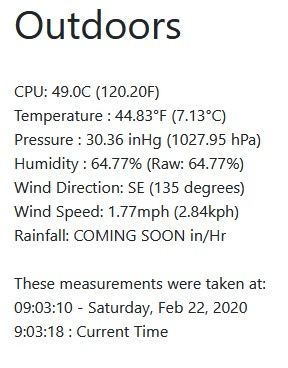
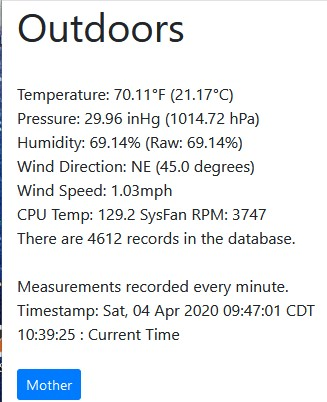
edits to readme.md

Changed region(s): [[0.0, 0.0, 0.9688, 1.0]]

diff --git a/README.md b/README.md
@@ -1,7 +1,7 @@
 # The Quest for a Reliable, Robust, Repairable Raspberry Pi-based Weather Station
 Project Initialized October 2019.
 Project opened to public on Github February 2020.
-![RRRRPWS on the pole.](./Pics/RRRRPWS-on-the-pole.jpg)
+![RRRRPWS on the pole.](./Pics/RRRRPWS-on-the-pole.jpg) ![Output as seen in browser.](./Pics/Output-to-brouswer.jpg)
 My station is up and running.  It works.  I get good, accurate, stable readings for temperature, pressure, humidity, wind speed, wind direction.  The tipping bucket rain gauge works, but my code is still incomplete for rainfall. 
 
 Here's what's where:  (remember: this is all in progress still)
